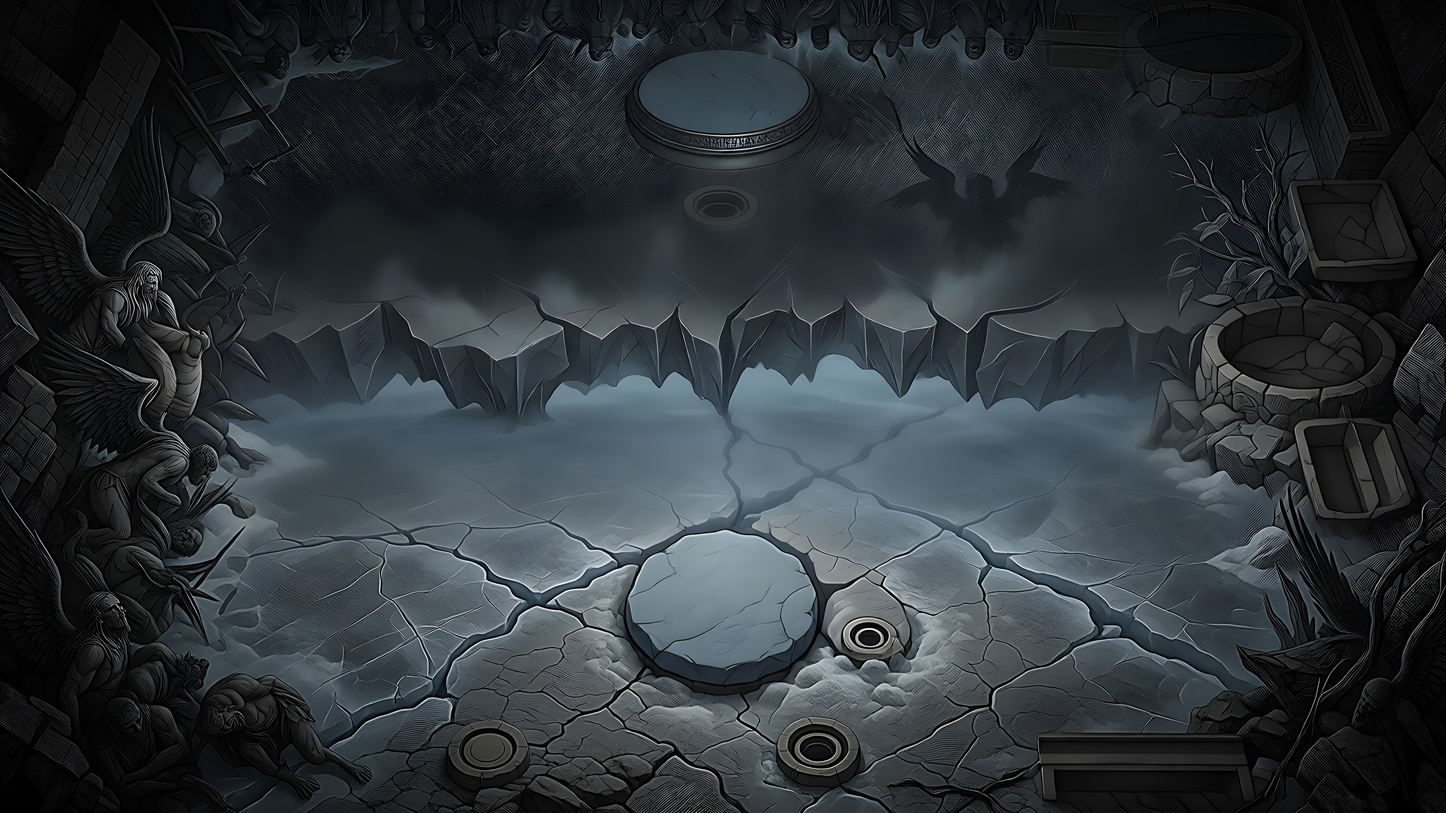
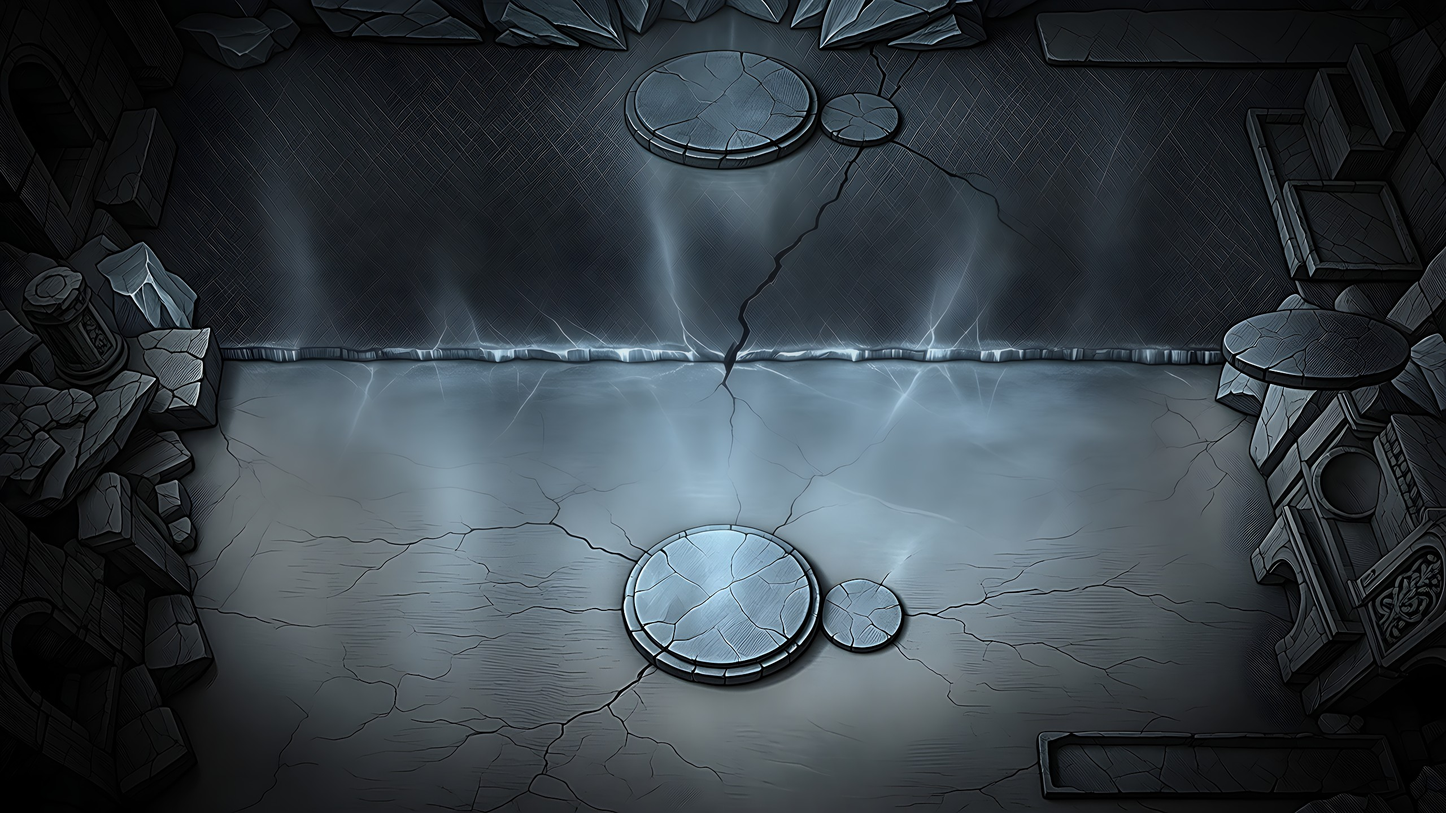
Mirrored hero sockets, token art, Cocytus board, docs out of the import
- Heroes sit at 143 / 801 and their powers 14 px above / below centre, mirrored about the divider (472), to match
  the symmetric blockouts being rebuilt.
- Art for the Tormented Shade and Lost Shade tokens (the last two cards without a painting).
- Cocytus board painted on its blockout with the stricter method, with its normal map.
- import_arena.py --only=<names> imports just the listed paintings.
- docs/.gdignore: Godot no longer imports the economy CSV as translations.

Claude-Session: https://claude.ai/code/session_01DdQNqCW4E72dFJiXExsGjP

diff --git a/tools/arena/import_arena.py b/tools/arena/import_arena.py
@@ -2,6 +2,7 @@
 
   python tools/arena/import_arena.py            # import what is new, list what is still missing
   python tools/arena/import_arena.py --force    # re-import files that are already installed
+  python tools/arena/import_arena.py --force --only=arena_cocytus_board   # just these names (comma separated)
 
 Sources: output/dantes_arena/ on the ComfyUI PC (made by the image session, see docs/ARENA_BRIEF.md):
   arena_<id>_board*.png  2560x1440 opaque   -> assets/arenas/<id>_board.jpg
@@ -111,11 +112,14 @@ def install(data: bytes, out: str, size: tuple, alpha: bool) -> str | None:
 
 def main() -> None:
     force = "--force" in sys.argv
+    only = next((a[7:].split(",") for a in sys.argv if a.startswith("--only=")), None)
     d = json.load(open(ARENAS_JSON, encoding="utf-8"))
     files = wanted(d["arenas"])
     known = history_names()
     got, missing, rejected = [], [], []
     for name, (dst, size, alpha) in files.items():
+        if only is not None and name not in only:
+            continue
         out = os.path.join(ROOT, "assets", "arenas", dst)
         if os.path.exists(out) and not force:
             continue
